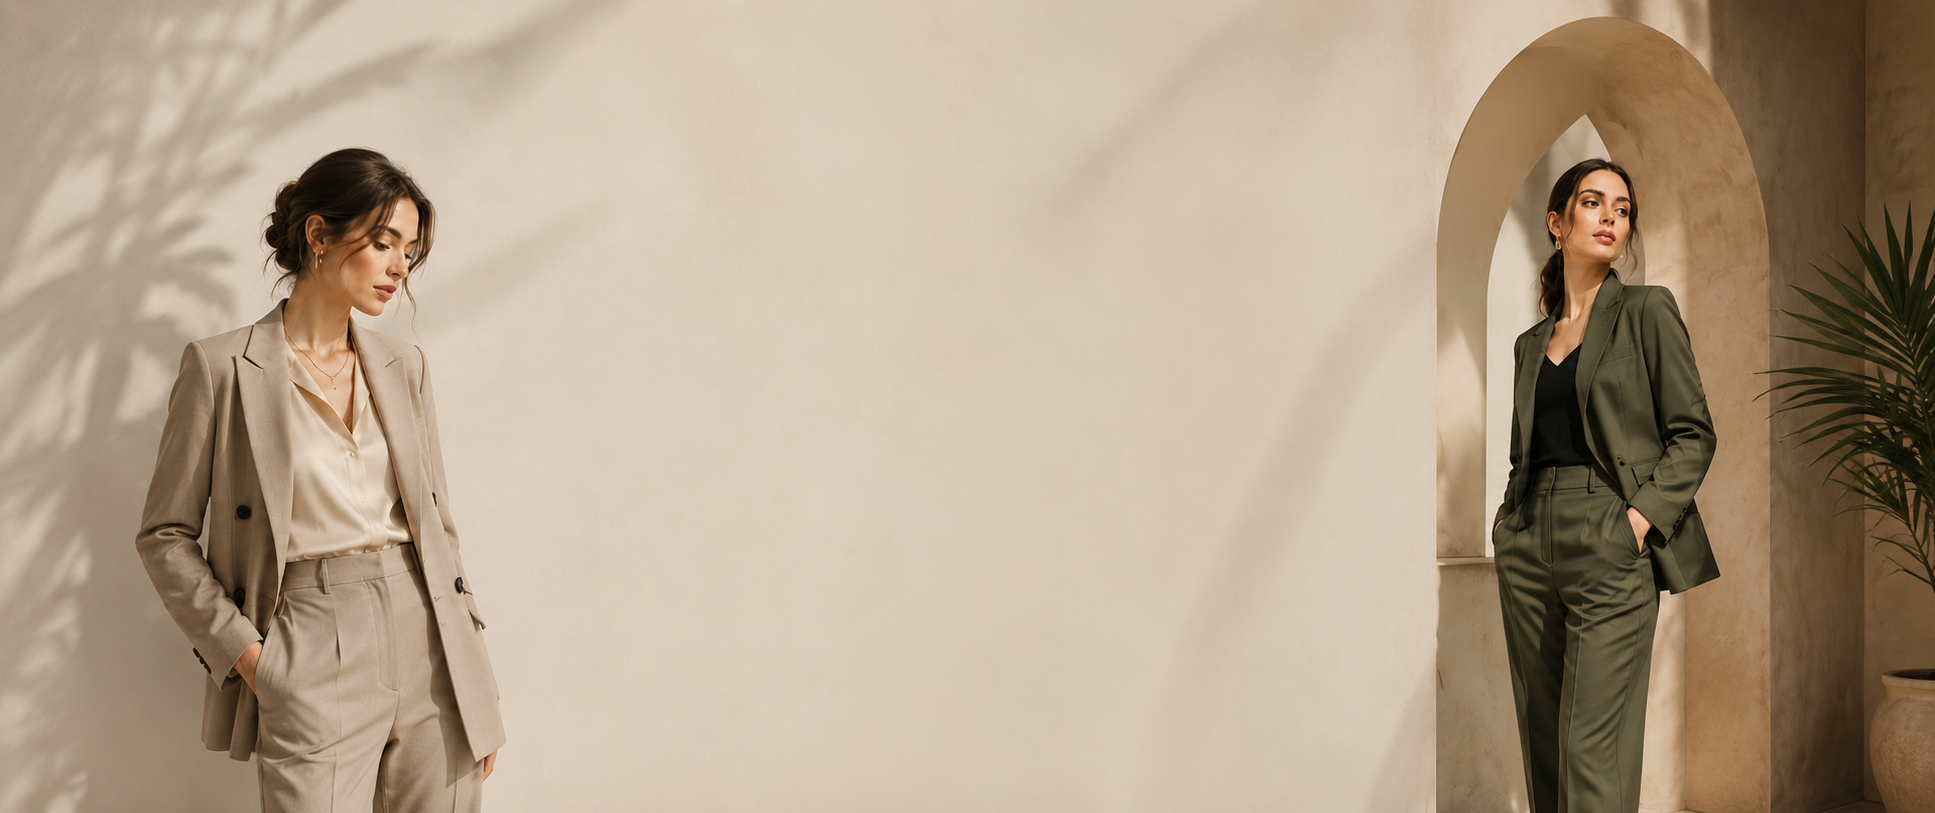
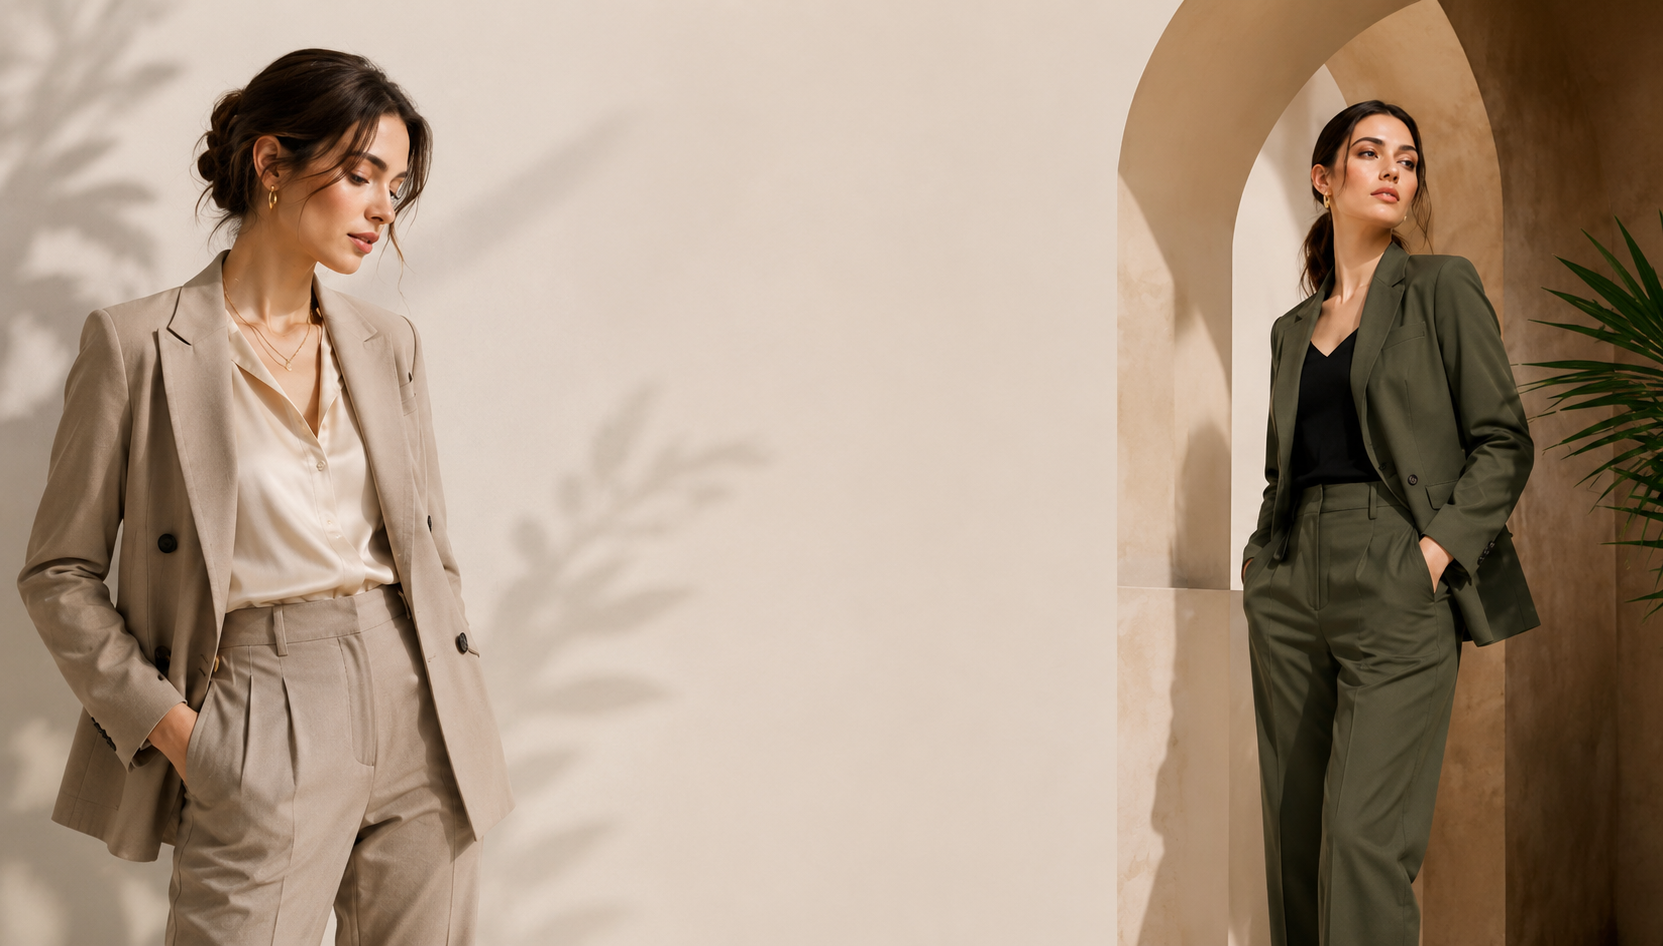
Updated project

diff --git a/src/components/home/HeroBanner.tsx b/src/components/home/HeroBanner.tsx
@@ -53,105 +53,138 @@ export function HeroBanner() {
     setActive(index);
   };
 
+  const activeSlide = SLIDES[active];
+
   return (
     <section className="relative w-full overflow-hidden bg-white">
-      {/* Banner Container */}
-      <div className="relative w-full aspect-[2500/1050] min-h-[350px] sm:min-h-[450px] lg:min-h-[550px] xl:min-h-[650px] overflow-hidden">
+      <div className="relative w-full overflow-hidden">
+        {/* Banner Image Area */}
+        <div className="relative w-full aspect-[2500/1050] overflow-hidden bg-white sm:min-h-[450px] lg:min-h-[550px] xl:min-h-[650px]">
+          {SLIDES.map((slide, index) => {
+            const isActive = index === active;
 
-        {SLIDES.map((slide, index) => {
-          const isActive = index === active;
+            return (
+              <div
+                key={slide.image}
+                className={`absolute inset-0 transition-opacity duration-700 ${
+                  isActive ? "opacity-100 z-10" : "opacity-0 z-0"
+                }`}
+              >
+                <Image
+                  src={slide.image}
+                  alt={slide.title}
+                  fill
+                  priority={index === 0}
+                  sizes="100vw"
+                  className="object-contain object-center sm:object-cover"
+                />
 
-          return (
-            <div
-              key={slide.image}
-              className={`absolute inset-0 transition-opacity duration-700 ${
-                isActive ? "opacity-100 z-10" : "opacity-0 z-0"
-              }`}
-            >
-              {/* Banner Image */}
-              <Image
-                src={slide.image}
-                alt={slide.title}
-                fill
-                priority={index === 0}
-                sizes="100vw"
-                className="object-cover object-center"
-              />
-
-              {/* Content */}
-              <div className="absolute inset-0 flex items-center">
-                <div className="container mx-auto px-4">
-                  <div
-                    className={`max-w-[560px] text-white drop-shadow-[0_3px_18px_rgba(0,0,0,0.72)] ${
-                      slide.align === "center"
-                        ? "mx-auto text-center"
-                        : "mr-auto text-left"
-                    }`}
-                  >
-                    <h1 className="text-2xl font-bold leading-tight sm:text-4xl lg:text-6xl">
-                      {slide.title}
-                    </h1>
-
-                    <p className="mt-3 max-w-xl text-xs font-medium leading-relaxed text-white/95 sm:text-base lg:mt-4 lg:text-lg">
-                      {slide.text}
-                    </p>
-
+                {/* Desktop Content Only */}
+                <div className="absolute inset-0 hidden items-center sm:flex">
+                  <div className="container mx-auto px-4">
                     <div
-                      className={`mt-5 flex flex-wrap gap-4 sm:mt-6 ${
+                      className={`max-w-[560px] text-white drop-shadow-[0_3px_18px_rgba(0,0,0,0.72)] ${
                         slide.align === "center"
-                          ? "justify-center"
-                          : "justify-start"
+                          ? "mx-auto text-center"
+                          : "mr-auto text-left"
                       }`}
                     >
-                      <Link
-                        href={slide.primaryHref}
-                        className="inline-flex items-center gap-2 text-sm font-semibold text-white underline underline-offset-8 transition hover:text-brand-100 sm:text-base"
-                      >
-                        {slide.primary}
-                        <ArrowRight size={18} />
-                      </Link>
+                      <h1 className="text-4xl font-bold leading-tight lg:text-6xl">
+                        {slide.title}
+                      </h1>
 
-                      <Link
-                        href={slide.secondaryHref}
-                        className="hidden items-center text-sm font-semibold text-white/90 underline underline-offset-8 transition hover:text-white sm:inline-flex sm:text-base"
+                      <p className="mt-4 max-w-xl text-base font-medium leading-relaxed text-white/95 lg:text-lg">
+                        {slide.text}
+                      </p>
+
+                      <div
+                        className={`mt-6 flex flex-wrap gap-4 ${
+                          slide.align === "center"
+                            ? "justify-center"
+                            : "justify-start"
+                        }`}
                       >
-                        {slide.secondary}
-                      </Link>
+                        <Link
+                          href={slide.primaryHref}
+                          className="inline-flex items-center gap-2 text-base font-semibold text-white underline underline-offset-8 transition hover:text-brand-100"
+                        >
+                          {slide.primary}
+                          <ArrowRight size={18} />
+                        </Link>
+
+                        <Link
+                          href={slide.secondaryHref}
+                          className="inline-flex items-center text-base font-semibold text-white/90 underline underline-offset-8 transition hover:text-white"
+                        >
+                          {slide.secondary}
+                        </Link>
+                      </div>
                     </div>
                   </div>
                 </div>
               </div>
-            </div>
-          );
-        })}
+            );
+          })}
 
-        {/* Navigation */}
-        <div className="absolute bottom-5 left-1/2 z-20 flex -translate-x-1/2 items-center gap-3 rounded-full bg-white/90 px-4 py-2 shadow-lg backdrop-blur-md">
-          <button
-            onClick={previous}
-            className="flex h-10 w-10 items-center justify-center rounded-full hover:bg-gray-100"
-          >
-            <ArrowLeft size={18} />
-          </button>
-
-          {SLIDES.map((_, index) => (
+          {/* Navigation */}
+          <div className="absolute bottom-2 left-1/2 z-20 flex -translate-x-1/2 items-center gap-2 rounded-full bg-white/90 px-3 py-1.5 shadow-lg backdrop-blur-md sm:bottom-5 sm:gap-3 sm:px-4 sm:py-2">
             <button
-              key={index}
-              onClick={() => goTo(index)}
-              className={`h-2.5 rounded-full transition-all ${
-                index === active
-                  ? "w-8 bg-black"
-                  : "w-2.5 bg-gray-400"
-              }`}
-            />
-          ))}
+              onClick={previous}
+              aria-label="Previous slide"
+              className="flex h-8 w-8 items-center justify-center rounded-full hover:bg-gray-100 sm:h-10 sm:w-10"
+            >
+              <ArrowLeft size={16} />
+            </button>
 
-          <button
-            onClick={next}
-            className="flex h-10 w-10 items-center justify-center rounded-full hover:bg-gray-100"
-          >
-            <ArrowRight size={18} />
-          </button>
+            {SLIDES.map((_, index) => (
+              <button
+                key={index}
+                onClick={() => goTo(index)}
+                aria-label={`Go to slide ${index + 1}`}
+                className={`h-2 rounded-full transition-all sm:h-2.5 ${
+                  index === active
+                    ? "w-7 bg-black sm:w-8"
+                    : "w-2 bg-gray-400 sm:w-2.5"
+                }`}
+              />
+            ))}
+
+            <button
+              onClick={next}
+              aria-label="Next slide"
+              className="flex h-8 w-8 items-center justify-center rounded-full hover:bg-gray-100 sm:h-10 sm:w-10"
+            >
+              <ArrowRight size={16} />
+            </button>
+          </div>
+        </div>
+
+        {/* Mobile Content Below Banner */}
+        <div className="block px-4 py-5 text-center sm:hidden">
+          <h1 className="text-2xl font-bold leading-tight text-gray-950">
+            {activeSlide.title}
+          </h1>
+
+          <p className="mx-auto mt-3 max-w-md text-sm font-medium leading-relaxed text-gray-600">
+            {activeSlide.text}
+          </p>
+
+          <div className="mt-4 flex flex-wrap justify-center gap-4">
+            <Link
+              href={activeSlide.primaryHref}
+              className="inline-flex items-center gap-2 text-sm font-semibold text-gray-950 underline underline-offset-8"
+            >
+              {activeSlide.primary}
+              <ArrowRight size={16} />
+            </Link>
+
+            <Link
+              href={activeSlide.secondaryHref}
+              className="inline-flex items-center text-sm font-semibold text-gray-700 underline underline-offset-8"
+            >
+              {activeSlide.secondary}
+            </Link>
+          </div>
         </div>
       </div>
     </section>